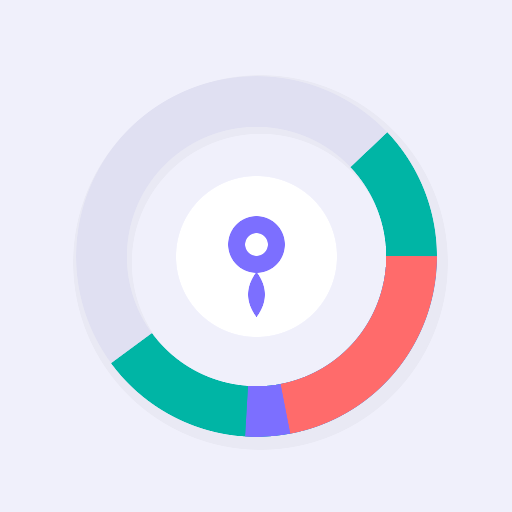
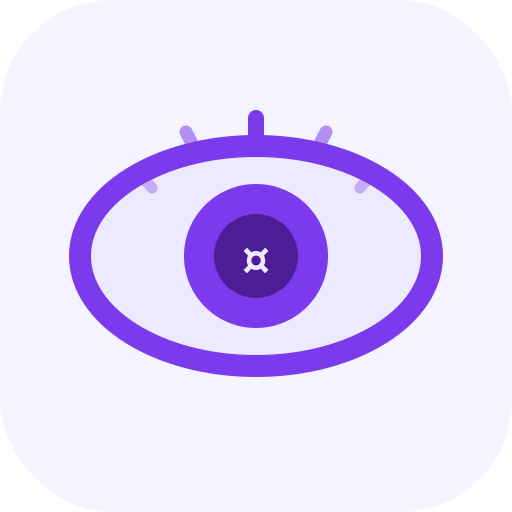
Add files via upload

Changed region(s): [[0.125, 0.2188, 0.875, 0.875], [0.3438, 0.3438, 0.6562, 0.6562]]

diff --git a/Budgeta/index.html b/Budgeta/index.html
@@ -6,10 +6,10 @@
     <meta name="theme-color" content="#0f0f1a" />
     <meta name="apple-mobile-web-app-capable" content="yes" />
     <meta name="apple-mobile-web-app-status-bar-style" content="black-translucent" />
-    <meta name="apple-mobile-web-app-title" content="NomadWallet" />
+    <meta name="apple-mobile-web-app-title" content="SpendSeer" />
     <link rel="manifest" href="/manifest.json" />
-    <link rel="apple-touch-icon" href="/icon.svg" />
-    <title>NomadWallet</title>
+    <link rel="apple-touch-icon" href="/apple-touch-icon.png" />
+    <title>SpendSeer</title>
   </head>
   <body>
     <div id="root"></div>

diff --git a/Budgeta/src/screens/AddExpenseScreen.jsx b/Budgeta/src/screens/AddExpenseScreen.jsx
@@ -28,7 +28,7 @@ export default function AddExpenseScreen() {
 
   // Persist last-used currency across sessions
   const [currency, setCurrencyState] = useState(
-    () => localStorage.getItem('budgeta_last_currency') ?? settings.pinned_currencies[0] ?? 'AED'
+    () => localStorage.getItem('spendseer_last_currency') ?? settings.pinned_currencies[0] ?? 'AED'
   )
   const [rawAmount, setRawAmount]     = useState('')
   const [homePreview, setHomePreview] = useState(null)
@@ -38,7 +38,7 @@ export default function AddExpenseScreen() {
 
   function setCurrency(code) {
     setCurrencyState(code)
-    localStorage.setItem('budgeta_last_currency', code)
+    localStorage.setItem('spendseer_last_currency', code)
   }
 
   useEffect(() => {
@@ -55,7 +55,7 @@ export default function AddExpenseScreen() {
 
   // Only fall back to settings default if nothing stored
   useEffect(() => {
-    if (!localStorage.getItem('budgeta_last_currency')) {
+    if (!localStorage.getItem('spendseer_last_currency')) {
       setCurrencyState(settings.pinned_currencies[0] ?? 'AED')
     }
   }, [settings.pinned_currencies])

diff --git a/Budgeta/src/lib/fx.js b/Budgeta/src/lib/fx.js
@@ -9,7 +9,7 @@
  * → rate stored on tx = 1 / rates[foreignCode]  (home per 1 foreign unit)
  */
 
-const CACHE_KEY = 'budgeta_fx'
+const CACHE_KEY = 'spendseer_fx'
 const TTL_MS = 60 * 60 * 1000 // 1 hour
 
 function readCache(homeCurrency) {

diff --git a/Budgeta/src/screens/LoginScreen.jsx b/Budgeta/src/screens/LoginScreen.jsx
@@ -22,7 +22,7 @@ export default function LoginScreen() {
   return (
     <div className="auth-screen">
       <div className="auth-card">
-        <h1 className="auth-title">Budgeta</h1>
+        <h1 className="auth-title">SpendSeer</h1>
         <p className="auth-sub">Track spending in any currency</p>
 
         <form onSubmit={handleSubmit} className="auth-form">

diff --git a/Budgeta/src/screens/SignupScreen.jsx b/Budgeta/src/screens/SignupScreen.jsx
@@ -27,7 +27,7 @@ export default function SignupScreen() {
   return (
     <div className="auth-screen">
       <div className="auth-card">
-        <h1 className="auth-title">Budgeta</h1>
+        <h1 className="auth-title">SpendSeer</h1>
         <p className="auth-sub">Create your account</p>
 
         <form onSubmit={handleSubmit} className="auth-form">